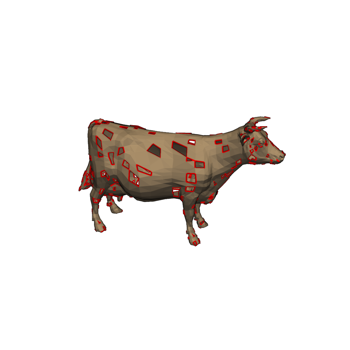
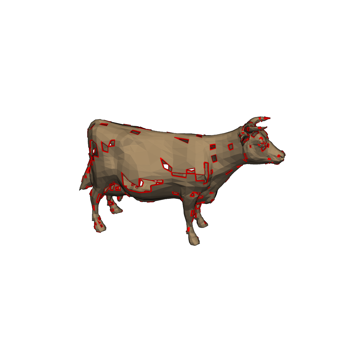
Update docs after building Travis build 55 of pyvista/pymeshfix
The docs were built from the branch 'master' against the commit
e546f50c84cab03819b79cf43d5edcfaf2949155.

The Travis build that generated this commit is at
https://travis-ci.org/pyvista/pymeshfix/jobs/549438978.

The doctr command that was run is

    /home/travis/virtualenv/python3.7.1/bin/doctr deploy --built-docs ./docs/_build/html/ .

Changed region(s): [[0.2286, 0.3429, 0.6857, 0.7143], [0.6571, 0.3143, 0.8286, 0.4857]]

diff --git a/searchindex.js b/searchindex.js
@@ -1,1 +1,1 @@
-Search.setIndex({docnames:["api","examples/bunny","examples/cow","examples/index","examples/sg_execution_times","examples/torso","index"],envversion:{"sphinx.domains.c":1,"sphinx.domains.changeset":1,"sphinx.domains.cpp":1,"sphinx.domains.javascript":1,"sphinx.domains.math":2,"sphinx.domains.python":1,"sphinx.domains.rst":1,"sphinx.domains.std":1,sphinx:56},filenames:["api.rst","examples/bunny.rst","examples/cow.rst","examples/index.rst","examples/sg_execution_times.rst","examples/torso.rst","index.rst"],objects:{"pymeshfix.MeshFix":{extract_holes:[0,1,1,""],load_arrays:[0,1,1,""],mesh:[0,2,1,""],plot:[0,1,1,""],repair:[0,1,1,""],save:[0,1,1,""],write:[0,1,1,""]},pymeshfix:{MeshFix:[0,0,1,""],_meshfix:[0,3,0,"-"],meshfix:[0,3,0,"-"]}},objnames:{"0":["py","class","Python class"],"1":["py","method","Python method"],"2":["py","attribute","Python attribute"],"3":["py","module","Python module"]},objtypes:{"0":"py:class","1":"py:method","2":"py:attribute","3":"py:module"},terms:{"083e":5,"0x7fa6199e2828":2,"0x7fa6199e28e8":[2,5],"320e":5,"442e":5,"446e":2,"624e":5,"637e":2,"680e":5,"696e":2,"701e":2,"720e":5,"760e":2,"998e":2,"case":6,"class":0,"default":0,"float":6,"import":[1,2,5,6],"new":0,"public":6,"return":[0,6],"true":[0,1,2,5],"while":6,FOR:6,One:6,The:6,There:6,_meshfix:6,abov:6,absolut:5,access:[0,6],add:2,add_mesh:[1,2,5],addit:0,again:6,agreement:6,all:[0,6],allow:6,along:5,altern:6,ani:6,appi:5,approach:6,arg:0,argument:0,arrai:[0,2,5,6],ascii:0,assum:6,attempt:[0,6],atten:[0,6],author:6,award:6,base:[0,6],been:6,befor:0,begin:0,bell:6,better:6,binari:0,bool:0,both:0,bound:[2,5,6],boundari:[0,6],bring:6,bunni:[3,4],cad:6,camera:[1,2],camera_posit:[1,2,5],can:[0,6],cannot:6,cast:2,cell:[2,5],charact:0,check:6,cite:6,clean:[0,6],clean_from_arrai:6,clean_from_fil:6,click:[1,2,5],clone:6,close:6,cnr:6,coars:6,code:[1,2,5],color:[1,2,5],com:6,commerci:6,commun:6,complex:5,compon:[0,2,5,6],comput:6,contain:0,contract:6,control:6,copi:6,correct:6,could:6,cow:[3,4],cpo:[1,2,5],cpos_ear:5,creat:6,cython:[0,6],data:0,debug:0,defect:6,defin:1,degener:6,degeneraci:[1,2,5],deprec:0,depth:[1,2,5],design:6,detail:6,digit:6,directli:6,disabl:0,disk:0,distribut:6,doi:6,download:[1,2,5],download_bunni:1,download_cow:2,download_torso:5,drive:6,dual:6,each:0,ear:5,eas:6,either:[0,6],element:6,emphas:5,enabl:0,enable_eye_dome_light:[1,2,5],ensur:5,even:6,exampl:[1,2,4,5],execut:4,extens:0,extract:[0,1,5],extract_geometri:2,extract_hol:[0,1,2,5],eye_dome_light:5,face:[0,6],fail:6,fals:0,faster:0,fclean:6,file:[0,4],filenam:0,filetyp:0,fill:6,fill_small_boundari:6,filter:5,fit:6,fix:[1,2,5],flaw:6,follow:[0,6],format:6,foundat:6,free:6,from:[0,1,2,5,6],ftype:0,full:[1,2,5],galleri:[1,2,3,5],gener:[1,2,3,5,6],git:6,github:6,gnu:6,gpl:6,hard:6,has:6,have:6,help:[1,2,5],here:[1,2,5,6],hole:[0,1,2,5,6],holei:[3,4],holy_cow:2,hope:6,how:6,http:6,idea:6,imati:6,impli:6,infer:0,infil:6,inner_loop:6,inplac:0,input:6,int32:6,interfac:0,intersect:[1,2,5,6],invert:2,ipynb:[1,2,5],isol:0,join:[0,6],join_closest_compon:6,joincomp:0,jupyt:[1,2,5],keyword:0,kwarg:0,largest:0,later:6,left:6,leverag:6,librari:6,licens:6,lightweight:6,line:0,line_width:[1,2,5],list:6,load:[0,6],load_arrai:[0,6],loadfil:6,locat:2,mai:[0,6],main:6,marco:[0,6],max_it:6,memori:6,merchant:6,mesh:[0,1,2,5,6],meshfix:[0,1,2,5,6],method:0,might:6,minut:[1,2,5],model:6,modifi:6,modul:[0,6],more:6,much:0,must:6,n_cell:2,nativ:6,ndarrai:0,nearbi:[0,6],necessari:6,need:5,nice:2,note:0,notebook:[1,2,5],numpi:[0,2,6],object:[0,6],occurr:6,one:0,open:0,option:[0,6],org:6,other:6,out:[1,2,5,6],outfil:6,outlin:[1,2,5],output:6,over:6,overridden:0,paper:6,paramet:0,part:[5,6],particular:6,patch:[1,2,5],percept:[1,2,5],perform:[0,6],perfrom:5,pip:6,pleas:6,plot:[0,1,2,5,6],plotter:[1,2,5],ply:[0,6],point:[0,2,5],polydata:[0,2,5],polygon:6,polyhedr:5,polyhedron:6,portabl:6,posit:1,present:6,print:[0,2,5,6],process:0,produc:6,program:6,proper:6,publish:6,purpos:6,pymeshfix:[0,1,2,5],pypi:6,python:[0,1,2,5,6],pytmesh:6,pyvista:[0,1,2,5,6],rand:2,random:2,raw:6,reach:6,read:6,readi:1,reason:6,redistribut:6,refer:6,region:6,remov:[0,2,5,6],remove_smallest_compon:0,render:[1,2],repair:[0,1,2,5,6],repres:6,requir:6,research:6,reserv:6,result:[2,6],return_arrai:6,right:6,run:[1,2,5,6],s00371:6,same:6,save:[0,6],save_fil:6,script:[1,2,5],second:[1,2,5],see:6,self:6,set:6,should:[0,6],show:[0,1,2,5],show_edg:5,show_hol:0,simpl:0,simpli:5,singl:6,singular:6,small:[2,5],softwar:6,solid:6,sort:6,sourc:[1,2,5,6],specif:6,specifi:0,speed:6,sphinx:[1,2,3,5],sphinx_gallery_thumbnail_numb:[1,2,5],springer:6,stl:0,str:0,string:0,subtl:5,surfac:[0,6],take:6,term:6,tessel:6,test:6,tetrahedr:0,than:0,thei:6,them:0,therefor:6,therein:6,thi:[0,5,6],three:0,threshold:2,thu:6,tight:5,time:[1,2,5],tin:6,tmesh:6,torso:[3,4],total:[1,2,4,5],tri_filt:[2,5],triangl:[5,6],triangul:2,triangular:0,txt:6,type:0,typic:6,unavail:6,under:6,understand:6,unless:0,unmodifi:6,updat:0,use:6,used:6,useful:6,user:6,uses:6,using:[0,6],vclean:6,verbos:[0,1,2,5],version:6,vertex:[0,6],view:6,visual:6,vtk:0,vtkinterfac:6,warranti:6,water:5,watertight:6,where:[5,6],whistl:6,win:6,wish:6,with_vtk:6,within:6,wonder:6,work:6,wrap:0,wrapper:[0,6],write:[0,6],written:0,www:6,xyz:0,you:6,your:6},titles:["API Reference","Bunny","Holey Cow","Examples","Computation times","Torso","PyMeshFix"],titleterms:{algorithm:6,api:0,bunni:1,citat:6,complet:6,comput:4,copyright:6,cow:2,depend:6,easi:6,exampl:[3,6],holei:2,instal:6,polici:6,pymeshfix:6,refer:0,time:4,torso:5,vtk:6,without:6}})
+Search.setIndex({docnames:["api","examples/bunny","examples/cow","examples/index","examples/sg_execution_times","examples/torso","index"],envversion:{"sphinx.domains.c":1,"sphinx.domains.changeset":1,"sphinx.domains.cpp":1,"sphinx.domains.javascript":1,"sphinx.domains.math":2,"sphinx.domains.python":1,"sphinx.domains.rst":1,"sphinx.domains.std":1,sphinx:56},filenames:["api.rst","examples/bunny.rst","examples/cow.rst","examples/index.rst","examples/sg_execution_times.rst","examples/torso.rst","index.rst"],objects:{"pymeshfix.MeshFix":{extract_holes:[0,1,1,""],load_arrays:[0,1,1,""],mesh:[0,2,1,""],plot:[0,1,1,""],repair:[0,1,1,""],save:[0,1,1,""],write:[0,1,1,""]},pymeshfix:{MeshFix:[0,0,1,""],_meshfix:[0,3,0,"-"],meshfix:[0,3,0,"-"]}},objnames:{"0":["py","class","Python class"],"1":["py","method","Python method"],"2":["py","attribute","Python attribute"],"3":["py","module","Python module"]},objtypes:{"0":"py:class","1":"py:method","2":"py:attribute","3":"py:module"},terms:{"083e":5,"0x7f8a56ac3888":2,"0x7f8a56ac3948":[2,5],"320e":5,"442e":5,"446e":2,"624e":5,"637e":2,"680e":5,"696e":2,"701e":2,"720e":5,"760e":2,"998e":2,"case":6,"class":0,"default":0,"float":6,"import":[1,2,5,6],"new":0,"public":6,"return":[0,6],"true":[0,1,2,5],"while":6,FOR:6,One:6,The:6,There:6,_meshfix:6,abov:6,absolut:5,access:[0,6],add:2,add_mesh:[1,2,5],addit:0,again:6,agreement:6,all:[0,6],allow:6,along:5,altern:6,ani:6,appi:5,approach:6,arg:0,argument:0,arrai:[0,2,5,6],ascii:0,assum:6,attempt:[0,6],atten:[0,6],author:6,award:6,base:[0,6],been:6,befor:0,begin:0,bell:6,better:6,binari:0,bool:0,both:0,bound:[2,5,6],boundari:[0,6],bring:6,bunni:[3,4],cad:6,camera:[1,2],camera_posit:[1,2,5],can:[0,6],cannot:6,cast:2,cell:[2,5],charact:0,check:6,cite:6,clean:[0,6],clean_from_arrai:6,clean_from_fil:6,click:[1,2,5],clone:6,close:6,cnr:6,coars:6,code:[1,2,5],color:[1,2,5],com:6,commerci:6,commun:6,complex:5,compon:[0,2,5,6],comput:6,contain:0,contract:6,control:6,copi:6,correct:6,could:6,cow:[3,4],cpo:[1,2,5],cpos_ear:5,creat:6,cython:[0,6],data:0,debug:0,defect:6,defin:1,degener:6,degeneraci:[1,2,5],deprec:0,depth:[1,2,5],design:6,detail:6,digit:6,directli:6,disabl:0,disk:0,distribut:6,doi:6,download:[1,2,5],download_bunni:1,download_cow:2,download_torso:5,drive:6,dual:6,each:0,ear:5,eas:6,either:[0,6],element:6,emphas:5,enabl:0,enable_eye_dome_light:[1,2,5],ensur:5,even:6,exampl:[1,2,4,5],execut:4,extens:0,extract:[0,1,5],extract_geometri:2,extract_hol:[0,1,2,5],eye_dome_light:5,face:[0,6],fail:6,fals:0,faster:0,fclean:6,file:[0,4],filenam:0,filetyp:0,fill:6,fill_small_boundari:6,filter:5,fit:6,fix:[1,2,5],flaw:6,follow:[0,6],format:6,foundat:6,free:6,from:[0,1,2,5,6],ftype:0,full:[1,2,5],galleri:[1,2,3,5],gener:[1,2,3,5,6],git:6,github:6,gnu:6,gpl:6,hard:6,has:6,have:6,help:[1,2,5],here:[1,2,5,6],hole:[0,1,2,5,6],holei:[3,4],holy_cow:2,hope:6,how:6,http:6,idea:6,imati:6,impli:6,infer:0,infil:6,inner_loop:6,inplac:0,input:6,int32:6,interfac:0,intersect:[1,2,5,6],invert:2,ipynb:[1,2,5],isol:0,join:[0,6],join_closest_compon:6,joincomp:0,jupyt:[1,2,5],keyword:0,kwarg:0,largest:0,later:6,left:6,leverag:6,librari:6,licens:6,lightweight:6,line:0,line_width:[1,2,5],list:6,load:[0,6],load_arrai:[0,6],loadfil:6,locat:2,mai:[0,6],main:6,marco:[0,6],max_it:6,memori:6,merchant:6,mesh:[0,1,2,5,6],meshfix:[0,1,2,5,6],method:0,might:6,minut:[1,2,5],model:6,modifi:6,modul:[0,6],more:6,much:0,must:6,n_cell:2,nativ:6,ndarrai:0,nearbi:[0,6],necessari:6,need:5,nice:2,note:0,notebook:[1,2,5],numpi:[0,2,6],object:[0,6],occurr:6,one:0,open:0,option:[0,6],org:6,other:6,out:[1,2,5,6],outfil:6,outlin:[1,2,5],output:6,over:6,overridden:0,paper:6,paramet:0,part:[5,6],particular:6,patch:[1,2,5],percept:[1,2,5],perform:[0,6],perfrom:5,pip:6,pleas:6,plot:[0,1,2,5,6],plotter:[1,2,5],ply:[0,6],point:[0,2,5],polydata:[0,2,5],polygon:6,polyhedr:5,polyhedron:6,portabl:6,posit:1,present:6,print:[0,2,5,6],process:0,produc:6,program:6,proper:6,publish:6,purpos:6,pymeshfix:[0,1,2,5],pypi:6,python:[0,1,2,5,6],pytmesh:6,pyvista:[0,1,2,5,6],rand:2,random:2,raw:6,reach:6,read:6,readi:1,reason:6,redistribut:6,refer:6,region:6,remov:[0,2,5,6],remove_smallest_compon:0,render:[1,2],repair:[0,1,2,5,6],repres:6,requir:6,research:6,reserv:6,result:[2,6],return_arrai:6,right:6,run:[1,2,5,6],s00371:6,same:6,save:[0,6],save_fil:6,script:[1,2,5],second:[1,2,5],see:6,self:6,set:6,should:[0,6],show:[0,1,2,5],show_edg:5,show_hol:0,simpl:0,simpli:5,singl:6,singular:6,small:[2,5],softwar:6,solid:6,sort:6,sourc:[1,2,5,6],specif:6,specifi:0,speed:6,sphinx:[1,2,3,5],sphinx_gallery_thumbnail_numb:[1,2,5],springer:6,stl:0,str:0,string:0,subtl:5,surfac:[0,6],take:6,term:6,tessel:6,test:6,tetrahedr:0,than:0,thei:6,them:0,therefor:6,therein:6,thi:[0,5,6],three:0,threshold:2,thu:6,tight:5,time:[1,2,5],tin:6,tmesh:6,torso:[3,4],total:[1,2,4,5],tri_filt:[2,5],triangl:[5,6],triangul:2,triangular:0,txt:6,type:0,typic:6,unavail:6,under:6,understand:6,unless:0,unmodifi:6,updat:0,use:6,used:6,useful:6,user:6,uses:6,using:[0,6],vclean:6,verbos:[0,1,2,5],version:6,vertex:[0,6],view:6,visual:6,vtk:0,vtkinterfac:6,warranti:6,water:5,watertight:6,where:[5,6],whistl:6,win:6,wish:6,with_vtk:6,within:6,wonder:6,work:6,wrap:0,wrapper:[0,6],write:[0,6],written:0,www:6,xyz:0,you:6,your:6},titles:["API Reference","Bunny","Holey Cow","Examples","Computation times","Torso","PyMeshFix"],titleterms:{algorithm:6,api:0,bunni:1,citat:6,complet:6,comput:4,copyright:6,cow:2,depend:6,easi:6,exampl:[3,6],holei:2,instal:6,polici:6,pymeshfix:6,refer:0,time:4,torso:5,vtk:6,without:6}})

diff --git a/examples/cow.html b/examples/cow.html
@@ -223,9 +223,9 @@
 </pre></div>
 </div>
 <p class="sphx-glr-script-out">Out:</p>
-<div class="sphx-glr-script-out highlight-none notranslate"><div class="highlight"><pre><span></span>PolyData (0x7fa6199e28e8)
-  N Cells:      5195
-  N Points:     2903
+<div class="sphx-glr-script-out highlight-none notranslate"><div class="highlight"><pre><span></span>PolyData (0x7f8a56ac3948)
+  N Cells:      5208
+  N Points:     2902
   X Bounds:     -4.446e+00, 5.998e+00
   Y Bounds:     -3.637e+00, 2.760e+00
   Z Bounds:     -1.701e+00, 1.701e+00
@@ -255,9 +255,9 @@
 </pre></div>
 </div>
 <p class="sphx-glr-script-out">Out:</p>
-<div class="sphx-glr-script-out highlight-none notranslate"><div class="highlight"><pre><span></span>Removed 2 small components
+<div class="sphx-glr-script-out highlight-none notranslate"><div class="highlight"><pre><span></span>Removed 1 small components
 Patching holes...
-Patched 205 holes
+Patched 186 holes
 Fixing degeneracies and intersections
 </pre></div>
 </div>
@@ -267,9 +267,9 @@ Fixing degeneracies and intersections
 </pre></div>
 </div>
 <p class="sphx-glr-script-out">Out:</p>
-<div class="sphx-glr-script-out highlight-none notranslate"><div class="highlight"><pre><span></span>PolyData (0x7fa6199e2828)
-  N Cells:      5448
-  N Points:     2726
+<div class="sphx-glr-script-out highlight-none notranslate"><div class="highlight"><pre><span></span>PolyData (0x7f8a56ac3888)
+  N Cells:      5450
+  N Points:     2727
   X Bounds:     -3.696e+00, 5.998e+00
   Y Bounds:     -3.637e+00, 2.760e+00
   Z Bounds:     -1.701e+00, 1.701e+00
@@ -280,7 +280,7 @@ Fixing degeneracies and intersections
 </pre></div>
 </div>
 <img alt="../_images/sphx_glr_cow_002.png" class="sphx-glr-single-img" src="../_images/sphx_glr_cow_002.png" />
-<p class="sphx-glr-timing"><strong>Total running time of the script:</strong> ( 0 minutes  5.131 seconds)</p>
+<p class="sphx-glr-timing"><strong>Total running time of the script:</strong> ( 0 minutes  5.245 seconds)</p>
 <div class="sphx-glr-footer class sphx-glr-footer-example docutils container" id="sphx-glr-download-examples-cow-py">
 <div class="sphx-glr-download docutils container">
 <p><a class="reference download internal" download="" href="../_downloads/700f1bf357ea69088c0a34b0aa306d26/cow.py"><code class="xref download docutils literal notranslate"><span class="pre">Download</span> <span class="pre">Python</span> <span class="pre">source</span> <span class="pre">code:</span> <span class="pre">cow.py</span></code></a></p>

diff --git a/examples/sg_execution_times.html b/examples/sg_execution_times.html
@@ -193,11 +193,11 @@
             
   <div class="section" id="computation-times">
 <span id="sphx-glr-examples-sg-execution-times"></span><h1>Computation times<a class="headerlink" href="#computation-times" title="Permalink to this headline">¶</a></h1>
-<p><strong>00:35.577</strong> total execution time for <strong>examples</strong> files:</p>
+<p><strong>00:36.047</strong> total execution time for <strong>examples</strong> files:</p>
 <ul class="simple">
-<li><p><strong>00:16.853</strong>: <a class="reference internal" href="torso.html#sphx-glr-examples-torso-py"><span class="std std-ref">Torso</span></a> (<code class="docutils literal notranslate"><span class="pre">torso.py</span></code>)</p></li>
-<li><p><strong>00:13.593</strong>: <a class="reference internal" href="bunny.html#sphx-glr-examples-bunny-py"><span class="std std-ref">Bunny</span></a> (<code class="docutils literal notranslate"><span class="pre">bunny.py</span></code>)</p></li>
-<li><p><strong>00:05.131</strong>: <a class="reference internal" href="cow.html#sphx-glr-examples-cow-py"><span class="std std-ref">Holey Cow</span></a> (<code class="docutils literal notranslate"><span class="pre">cow.py</span></code>)</p></li>
+<li><p><strong>00:17.074</strong>: <a class="reference internal" href="torso.html#sphx-glr-examples-torso-py"><span class="std std-ref">Torso</span></a> (<code class="docutils literal notranslate"><span class="pre">torso.py</span></code>)</p></li>
+<li><p><strong>00:13.728</strong>: <a class="reference internal" href="bunny.html#sphx-glr-examples-bunny-py"><span class="std std-ref">Bunny</span></a> (<code class="docutils literal notranslate"><span class="pre">bunny.py</span></code>)</p></li>
+<li><p><strong>00:05.245</strong>: <a class="reference internal" href="cow.html#sphx-glr-examples-cow-py"><span class="std std-ref">Holey Cow</span></a> (<code class="docutils literal notranslate"><span class="pre">cow.py</span></code>)</p></li>
 </ul>
 </div>
 

diff --git a/examples/torso.html b/examples/torso.html
@@ -219,7 +219,7 @@ parts of the mesh</p>
 </pre></div>
 </div>
 <p class="sphx-glr-script-out">Out:</p>
-<div class="sphx-glr-script-out highlight-none notranslate"><div class="highlight"><pre><span></span>PolyData (0x7fa6199e28e8)
+<div class="sphx-glr-script-out highlight-none notranslate"><div class="highlight"><pre><span></span>PolyData (0x7f8a56ac3948)
   N Cells:      12448
   N Points:     12015
   X Bounds:     -1.680e+02, 1.720e+02
@@ -282,7 +282,7 @@ Fixing degeneracies and intersections
 </pre></div>
 </div>
 <img alt="../_images/sphx_glr_torso_004.png" class="sphx-glr-single-img" src="../_images/sphx_glr_torso_004.png" />
-<p class="sphx-glr-timing"><strong>Total running time of the script:</strong> ( 0 minutes  16.853 seconds)</p>
+<p class="sphx-glr-timing"><strong>Total running time of the script:</strong> ( 0 minutes  17.074 seconds)</p>
 <div class="sphx-glr-footer class sphx-glr-footer-example docutils container" id="sphx-glr-download-examples-torso-py">
 <div class="sphx-glr-download docutils container">
 <p><a class="reference download internal" download="" href="../_downloads/988781b05954ec5068adbfe7a980b827/torso.py"><code class="xref download docutils literal notranslate"><span class="pre">Download</span> <span class="pre">Python</span> <span class="pre">source</span> <span class="pre">code:</span> <span class="pre">torso.py</span></code></a></p>

diff --git a/examples/bunny.html b/examples/bunny.html
@@ -255,7 +255,7 @@ Fixing degeneracies and intersections
 </pre></div>
 </div>
 <img alt="../_images/sphx_glr_bunny_003.png" class="sphx-glr-single-img" src="../_images/sphx_glr_bunny_003.png" />
-<p class="sphx-glr-timing"><strong>Total running time of the script:</strong> ( 0 minutes  13.593 seconds)</p>
+<p class="sphx-glr-timing"><strong>Total running time of the script:</strong> ( 0 minutes  13.728 seconds)</p>
 <div class="sphx-glr-footer class sphx-glr-footer-example docutils container" id="sphx-glr-download-examples-bunny-py">
 <div class="sphx-glr-download docutils container">
 <p><a class="reference download internal" download="" href="../_downloads/81a10a6450959c49a589aa8cee630836/bunny.py"><code class="xref download docutils literal notranslate"><span class="pre">Download</span> <span class="pre">Python</span> <span class="pre">source</span> <span class="pre">code:</span> <span class="pre">bunny.py</span></code></a></p>
